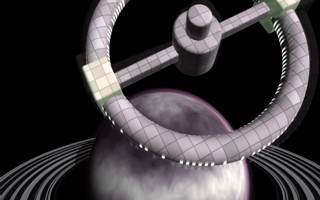
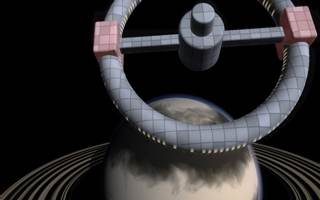
OrbitalRingStation: the cloud deck's scale follows audioSwell, not the bass band (a fast signal on a spatial scale, left open by B2); new catalogue frames

diff --git a/docs/engine-internals.md b/docs/engine-internals.md
@@ -8255,8 +8255,8 @@ preset diff touches most entries by a second or two.
   QamConstellationDust +22 %, the dim photo behind in ChordColourTransitions, SphericalWaveCrossStitch and
   FatouParabolicFlowers); `temporal_budget.py` sees no full-field flash above its limits, but the eye should judge
   those five first.
-- *OrbitalRingStation* still scales its cloud deck by `audioBass` (a fast signal on a spatial scale); the fix went
-  with the dropped change. One line (`sc = 3.4 * ( 1.0 + 0.12 * audioBass )` -> `audioSwell`).
+- *OrbitalRingStation* scaled its cloud deck by `audioBass` (a fast signal on a spatial scale); the fix went with
+  the dropped change and was made afterwards: `sc = 3.4 * ( 1.0 + 0.12 * audioSwell )`, new catalogue frames.
 - *Snapshots and the now-playing title:* `scene_snapshots.py` runs the app live, and the app's title reveal
   (`NowPlaying`, the system's media session) wove whatever the machine was playing into about half of the first
   B2 snapshot frames. The set was rendered again with `KALEIDO_NP_FAKE="none|none@999999"` (a scripted session that
